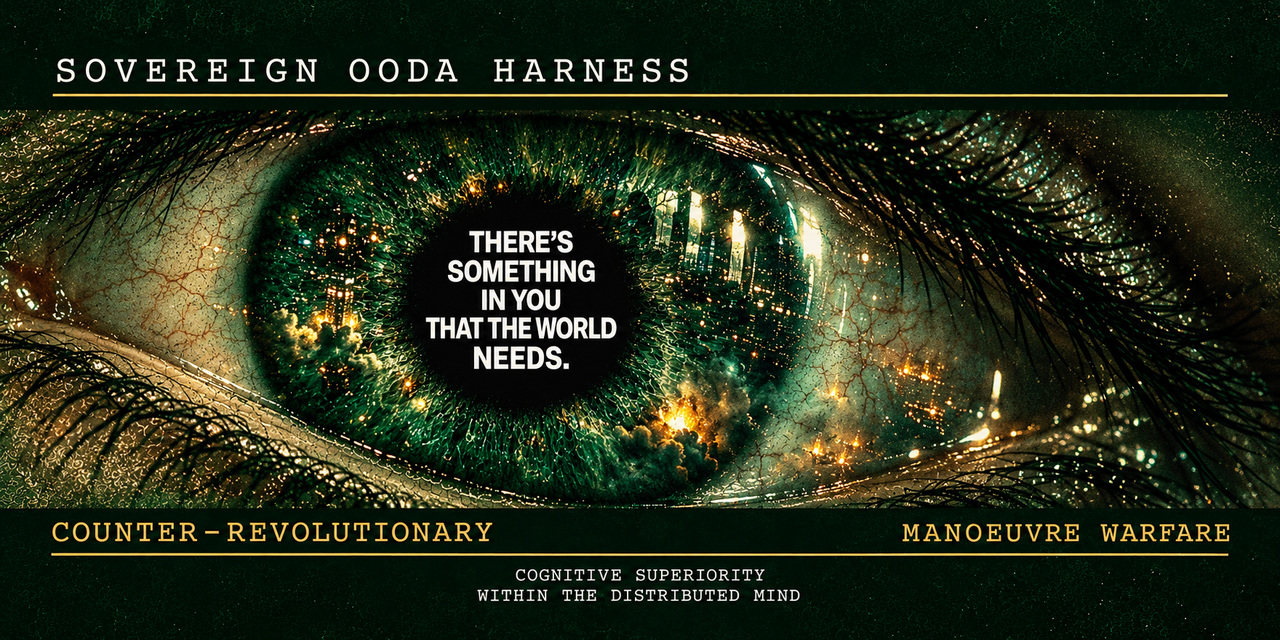
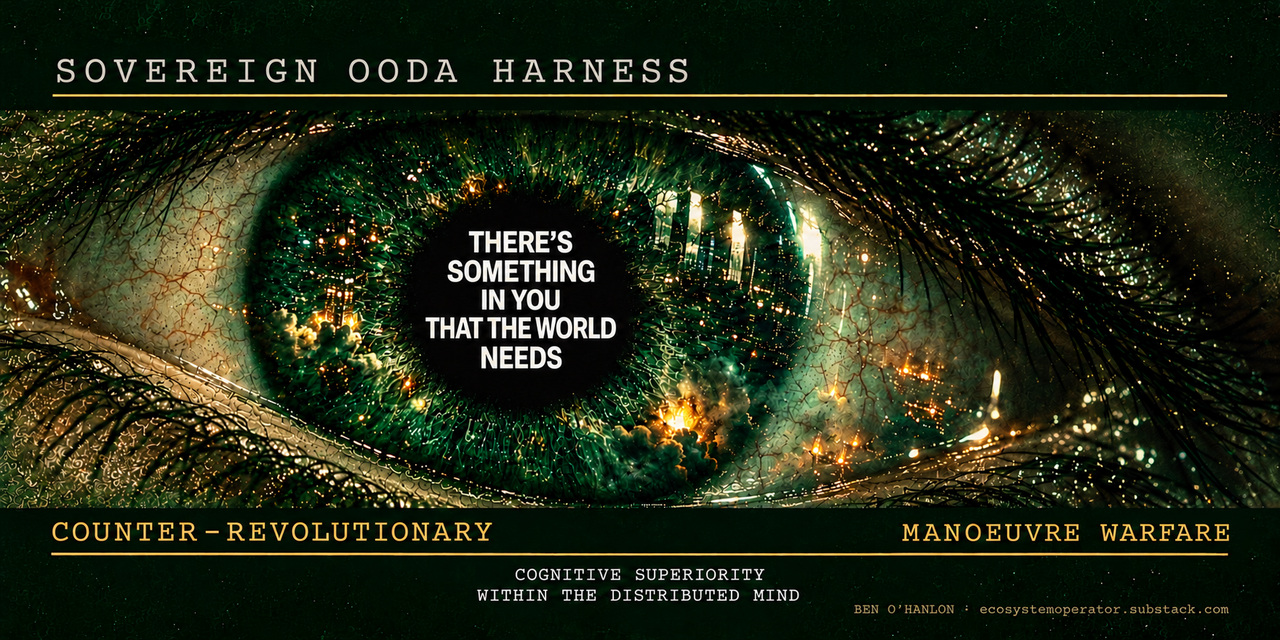
Publish credited cover and portable brand kit v1.1

diff --git a/brand/README.md b/brand/README.md
@@ -1,0 +1,151 @@
+# Sovereign OODA Harness � brand kit v1.1
+
+Approved by Ben on 22 October 2026. Version 1.1 is the current benchmark: the credited cinematic eye, a softer title, a quieter credit and no full stop after NEEDS.
+
+## Start with the approved artwork
+
+![Approved cinematic eye cover](../assets/sovereign-ooda-cover.jpg)
+
+[Master PNG](assets/sovereign-ooda-cover-master.png) � [GitHub JPEG](../assets/sovereign-ooda-cover.jpg) � [Reusable prompts](PROMPTS.md) � [Design tokens](tokens.json)
+
+Use the approved image as the visual reference in every artwork brief. Reuse the existing asset whenever the task needs this cover. New generations are candidates until compared with it and accepted. The earlier blue, frontal-eye and pupil-position studies are exploration history.
+
+## Identity and intent
+
+Sovereign OODA Harness connects observation and orientation with human agency, sovereignty and the distributed mind. The artwork combines an intimate human eye with the pressure and complexity of the world reflected in it.
+
+The emotional centre is the message inside the pupil: there is something in you that the world needs. Counter-revolutionary, manoeuvre warfare and cognitive superiority supply the strategic framing. Preserve the user's language.
+
+The chosen look is cinematic, tactile, alert and human. Green carries the identity, gold carries structure and reflected light, and bone carries the message. Blade Runner's reflected-world eye informed the cinematic treatment; Nous/Hermes and Metalabel informed the earlier print and typographic research. The approved Sovereign OODA image is the reference for production.
+
+## The eye
+
+- Use a large emerald iris and dark pupil in an extreme close crop. Preserve natural anatomy and the intimate scale.
+- Carry a diagonal sweep through the eyelids and lashes, falling toward the viewer's right. The intended reading is a slightly low, oblique viewpoint and attention caught by something below-right.
+- Keep the eye as a fragment of a person in a moment of noticing. Preserve the tension, vulnerability and ambiguity of alertness or surprise.
+- Reflect tiny city lights and distant amber-gold fire across the iris and corneal highlights. They suggest the surrounding world; they must not cover the pupil's words.
+- Keep the pupil dark, the personal statement upright and complete, and the iris visually dominant.
+- Match the approved image's visible geometry. Do not replace it with a frontal whole almond eye or treat sideways pupil movement alone as the solution.
+
+The viewpoint is art direction and a perceptual reading. The benchmark itself resolves ambiguities more reliably than a verbal camera description.
+
+## Colour system
+
+These hex values are working targets for editable materials. The approved photograph contains a broad tonal range; they are not measurements of every generated pixel.
+
+| Colour | Target | Use |
+| --- | --- | --- |
+| Forest dark | #07140F | Main background and negative space. |
+| Emerald | #20784E | Eye and primary identity colour. |
+| Sage | #A2BA91 | Lighter photographic detail. |
+| Antique gold | #C6A45D | Rules, strategic labels and warm light accents. |
+| Bone | #F1EBD7 | Pupil statement and cognitive footer. |
+| Quiet bone | #C9C5B5 | Softer product title. |
+| Muted gold | #8E815E | Discreet authorship credit. |
+
+Keep dark green dominant. Gold rules and labels are flat printed colour; gold reflections within the eye may glow naturally. Bone text stays clear against dark areas. Preserve the green-and-gold balance rather than shifting the whole image to orange, blue or cream.
+
+## Typography
+
+| Role | Editable specification | Treatment |
+| --- | --- | --- |
+| Product title | Courier New Bold; Courier or monospace fallback | Uppercase quiet bone, left aligned, generous tracking. |
+| Pupil statement | Helvetica Bold; Arial Bold or sans-serif fallback | Uppercase, compact five-line block, centred in pupil. |
+| Strategic labels | Courier New Bold; Courier or monospace fallback | Uppercase gold, left and right beneath the image. |
+| Cognitive footer | Courier New Bold; Courier or monospace fallback | Uppercase bone, two centred lines. |
+| Authorship credit | Courier New; Courier or monospace fallback | Small muted-gold line, right aligned below the cognitive footer. |
+
+The approved raster approximates these letterforms and has no editable text or embedded fonts. These are production choices for future live typesetting.
+
+Maintain this order of attention: personal statement and eye, product identity, strategic labels, cognitive footer. Check real display size; use live type when exact wording and spacing are critical.
+
+## Authorship credit
+
+The image carries its own origin and a public destination:
+
+```text
+BEN O�HANLON � ecosystemoperator.substack.com
+```
+
+Keep this credit in the image itself, so saved or reposted copies remain traceable. Use a subdued warm gold on the lower-right dark margin, with its own baseline below the cognitive footer. Align the right edge with the main text/rule margin. Keep it readable at the 1280 � 640 export size, while the pupil message stays brightest. The product title is quieter warm bone; do not fade the central statement.
+
+## Canonical cover copy
+
+Product name:
+
+```text
+SOVEREIGN OODA HARNESS
+```
+
+Pupil statement, five lines:
+
+```text
+THERE'S
+SOMETHING
+IN YOU
+THAT THE WORLD
+NEEDS
+```
+
+Strategic labels:
+
+```text
+COUNTER-REVOLUTIONARY
+MANOEUVRE WARFARE
+```
+
+Footer:
+
+```text
+COGNITIVE SUPERIORITY
+WITHIN THE DISTRIBUTED MIND
+```
+
+Retain the hyphen in COUNTER-REVOLUTIONARY and the British spelling MANOEUVRE: M A N O E U V R E. The final pupil line is NEEDS, with no full stop. Preserve the full statement and footer. New campaign wording should be an explicit brief choice.
+
+## Composition and formats
+
+The approved cover is 2:1. The eye image reaches the canvas edges; title, rules and lower text sit within approximately 4% horizontal margins. The photographic band occupies roughly 60% of the height. These are matching guides, not a substitute for the actual artwork.
+
+The title sits above a thin gold rule. The eye fills the middle. Gold strategic labels sit beneath it, followed by a second gold rule and a two-line bone footer. The pupil is left of the canvas centre and contains the personal statement. The subdued credit sits on its own lower-right baseline beneath the main footer.
+
+| Asset | Dimensions | Use |
+| --- | --- | --- |
+| Approved master PNG | 1774 � 887 | Preserve at native resolution as the benchmark. |
+| GitHub JPEG | 1280 � 640 | README cover and repository social preview. |
+| Future 2:1 master | Brief-specific; retain 2:1 | Produce new detail only when a larger source is needed. |
+| Square or portrait adaptation | Set for its destination | Recompose the hierarchy and image crop; keep natural anatomy and complete chosen copy. |
+
+Resize proportionally. Do not stretch the eye or crop away text to make a different ratio. A future larger export from this master is an upscale, not additional source detail.
+
+GitHub recommends 1280 � 640 and a file below 1 MB for repository social previews. This is separate from README display sizing. Our JPEG is 497,082 bytes. [GitHub guidance](https://docs.github.com/en/repositories/managing-your-repositorys-settings-and-features/customizing-your-repository/customizing-your-repositorys-social-media-preview).
+
+## Making coherent new artwork
+
+1. Open the approved cover and this guide before drafting the brief.
+2. State the asset's purpose, destination, ratio and exact copy.
+3. Attach the approved cover as the main image reference. State the one or two deliberate changes.
+4. Keep the palette, eye treatment, type contrast and hierarchy consistent. Let the reflected environment vary when the brief calls for it.
+5. Compare the candidate beside the benchmark at full size and at its intended display size.
+6. Check every word, the pupil's contrast, natural anatomy and safe margins. Record what changed.
+7. Save candidates separately. Promote a new benchmark only after Ben selects it; retain previous approved versions.
+
+Do not introduce generic HUD overlays, unrelated symbols, additional eyes, other organisations' logos or a new dominant palette. Keep the human message central.
+
+## Approval check
+
+- The image belongs to the same green, gold and dark visual family.
+- The crop, iris scale and diagonal geometry preserve the moment of noticing.
+- Reflected lights add atmosphere without obscuring the personal statement.
+- The personal statement is the first clear textual read.
+- Every chosen line is correct and legible at the intended output size.
+- The image is proportionate, with no stretched anatomy or clipped wording.
+- The brief's deliberate changes are clear; the benchmark has not silently drifted.
+
+## Files and versioning
+
+Version 1.1 freezes the approved cinematic eye cover. The manifest records dimensions, byte counts and SHA-256 checksums for the packaged assets. The ZIP contains this guide, design tokens, reusable prompts, generation/edit prompts, the master and the GitHub export.
+
+The current master is assets/sovereign-ooda-cover-master.png. The README uses ../assets/sovereign-ooda-cover.jpg. Git history preserves earlier published versions; Notion retains the private approvals and exploration history.
+
+GitHub carries the portable guide, tokens, reusable prompts, manifest, master and cover export. Notion retains the maintained approval record and exploration history. On a new accepted revision, update the portable files and record the accepted commit in Notion. Publication is separate from any runtime deployment.

diff --git a/brand/PROMPTS.md b/brand/PROMPTS.md
@@ -1,0 +1,67 @@
+# Sovereign OODA Harness � reusable artwork prompts
+
+Use these with the approved v1.1 image attached. The image is the main visual authority. These templates do not promise identical results from text alone.
+
+For a full cover, preserve the softer warm-bone title, the complete pupil statement ending NEEDS without a full stop, and the subdued lower-right credit: BEN O�HANLON � ecosystemoperator.substack.com. Keep the credit legible while the pupil statement stays brightest.
+
+## Adapt an existing asset
+
+```text
+Use the attached Sovereign OODA Harness approved v1.1 cover as the edit target and visual benchmark.
+
+Task: [asset purpose and destination].
+Output: [width � height and aspect ratio].
+Change only: [specific requested changes].
+Exact copy: [complete text and intended line breaks].
+
+Preserve the emerald iris, dark forest background, antique gold structure and reflections, bone text, intimate oblique crop, dominant iris and dark pupil. Keep the downward-right sweep of lids and lashes, the human moment of noticing and the contrast between monospaced identity/supporting type and bold sans pupil text.
+
+Retain the complete chosen pupil statement, upright inside the black pupil. Keep light and fire reflections out of the words. Match the approved visual hierarchy and natural anatomy. Recompose for a new ratio rather than stretching.
+
+Do not introduce a frontal whole almond eye, generic HUD graphics, other logos, a blue/cream palette or additional text.
+```
+
+## Create a related artwork
+
+```text
+Create a new Sovereign OODA Harness artwork in the visual family of the attached approved v1.1 cover.
+
+Purpose and audience: [brief].
+Format and size: [brief].
+Exact copy: [verbatim].
+Deliberate variation: [environment reflected in eye, lighting or composition].
+
+Use the benchmark's dark forest ground, emerald/sage eye detail, antique gold rules/accents and bone typography. Preserve the intimate human eye, large iris, oblique diagonal lids/lashes and alert, vulnerable moment of noticing. Warm city-light/fire reflections belong across the iris and cornea; keep the pupil dark enough for the personal message.
+
+Use a monospaced uppercase identity/supporting system and a compact bold sans message. Keep the personal message and eye first in the hierarchy. Preserve believable proportions and tactile photographic detail.
+
+Vary only what the brief calls for. Compare the result beside the benchmark before calling it complete.
+```
+
+## Cover copy block
+
+```text
+SOVEREIGN OODA HARNESS
+
+THERE'S
+SOMETHING
+IN YOU
+THAT THE WORLD
+NEEDS
+
+COUNTER-REVOLUTIONARY
+MANOEUVRE WARFARE
+
+COGNITIVE SUPERIORITY
+WITHIN THE DISTRIBUTED MIND
+
+BEN O�HANLON � ecosystemoperator.substack.com
+```
+
+Check MANOEUVRE letter by letter: M A N O E U V R E. Keep the hyphen in COUNTER-REVOLUTIONARY.
+
+## Review instruction
+
+```text
+Compare this candidate with the attached approved cover. Check palette, eye scale/crop/angle, reflected light, type hierarchy, exact copy, output ratio and legibility. Identify any material drift and fix the smallest number of things needed. Keep the candidate separate from the approved benchmark until Ben selects it.
+```

diff --git a/README.md b/README.md
@@ -1,12 +1,12 @@
 # Sovereign OODA Harness
 
-![Sovereign OODA Harness. A green eye reflects gold city lights. There's something in you that the world needs. Counter-revolutionary manoeuvre warfare. Cognitive superiority within the distributed mind.](assets/sovereign-ooda-cover.jpg)
+![Sovereign OODA Harness. A green eye reflects gold city lights. There's something in you that the world needs. Counter-revolutionary manoeuvre warfare. Cognitive superiority within the distributed mind. Ben O'Hanlon — ecosystemoperator.substack.com.](assets/sovereign-ooda-cover.jpg)
 
 **Private alpha.** No public installation release date is confirmed.
 
 Start with [current status and setup](#3-current-state-and-getting-started). Read the [operating model](#4-operating-model) and [component map](#5-system-design-and-components).
 
-[SOUL](SOUL.md) · [Repository guidance](AGENTS.md) · [Roles](ROLES.md) · [Skills](SKILLS.md) · [Lists](LISTS.md)
+[SOUL](SOUL.md) · [Repository guidance](AGENTS.md) · [Roles](ROLES.md) · [Skills](SKILLS.md) · [Lists](LISTS.md) · [Brand guide](brand/README.md)
 
 Welcome to the real OODA Harness. OODA stands for Observe, Orient, Decide and Act. [John Boyd](https://slightlyeastofnew.com/wp-content/uploads/2010/03/essence_of_winning_losing.pdf) described its role in enabling us to “comprehend, shape, adapt to and in turn be shaped by an unfolding evolving reality that is uncertain, everchanging, and unpredictable.” OODA is a non-linear process of continuing reorientation and feedback, rather than a fixed sequence of four steps.
 

diff --git a/AGENTS.md b/AGENTS.md
@@ -24,6 +24,8 @@ For an explicitly assigned enduring role, use the [common operating contract](do
 
 Use [Writing and Editing](skills/writing-and-editing/SKILL.md) and its [Writing and Editorial Standards](skills/writing-and-editing/references/EDITORIAL-STANDARDS.md) for authored or edited prose, reviews and advisory replies. Read the standard before the relevant work and reuse a current read during the task. Apply it alongside specialist workflows, preserving their scope and execution rules.
 
+For project artwork and cover images, use the [brand guide](brand/README.md) and its approved reference assets.
+
 When delegating this work, include the current brief, relevant sources, accepted corrections and the shared skill and standard in the assignment. Do not assume a child agent inherits SOUL or the parent's loaded skills. Use the [role directory's handover rule](ROLES.md#coordination-and-shared-skills) before accepting or integrating its result.
 
 ## Emerging layout
